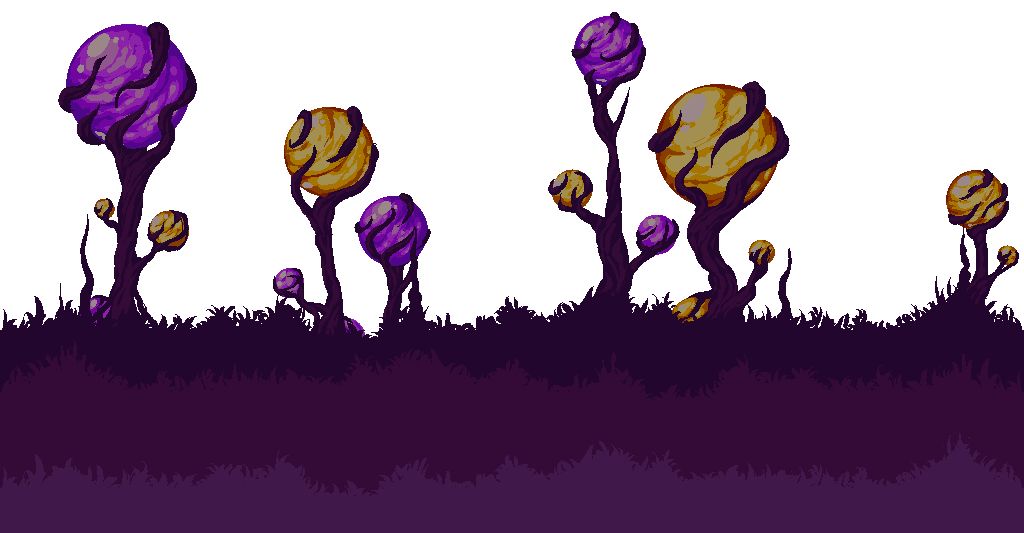
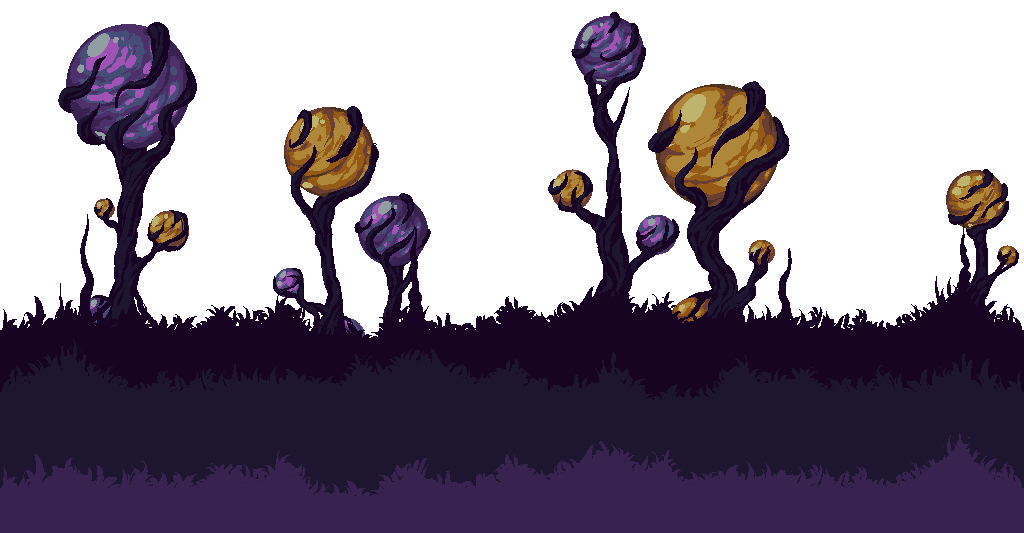
background updates

diff --git a/Backgrounds/AstralBG.cs b/Backgrounds/AstralBG.cs
@@ -5,13 +5,10 @@ namespace CalValEX.Backgrounds
 {
     public class AstralBG : ModSurfaceBgStyle
     {
-        private static int SurfaceFrameCounter;
-        private static int SurfaceFrame;
 
         public override bool ChooseBgStyle() =>
             !Main.gameMenu && Main.LocalPlayer.GetModPlayer<CalValEXPlayer>().ZoneAstral;
 
-        // Use this to keep far Backgrounds like the mountains.
         public override void ModifyFarFades(float[] fades, float transitionSpeed)
         {
             for (int i = 0; i < fades.Length; i++)
@@ -33,32 +30,21 @@ namespace CalValEX.Backgrounds
                 }
         }
 
-        public override int ChooseFarTexture() => mod.GetBackgroundSlot("Backgrounds/AstralBack");
+        public override int ChooseFarTexture()
+        {
+            //b -= 510f;
+            return mod.GetBackgroundSlot("Backgrounds/AstralBack");
+        } 
 
         public override int ChooseMiddleTexture()
         {
-            if (++SurfaceFrameCounter > 12)
-            {
-                SurfaceFrame = (SurfaceFrame + 1) % 2;
-                SurfaceFrameCounter = 0;
-            }
-
-            switch (SurfaceFrame)
-            {
-                case 0:
-                    return mod.GetBackgroundSlot("Backgrounds/AstralMiddle");
-
-                case 1:
-                    return mod.GetBackgroundSlot("Backgrounds/AstralMiddle");
-
-                default:
-                    return -1;
-            }
+            //b -= 200f;
+           return mod.GetBackgroundSlot("Backgrounds/AstralMiddle");
         }
 
         public override int ChooseCloseTexture(ref float scale, ref double parallax, ref float a, ref float b)
         {
-            b -= 130f;
+            b -= 180f;
             return mod.GetBackgroundSlot("Backgrounds/AstralClose");
         }
     }

diff --git a/Backgrounds/AstralSky.cs b/Backgrounds/AstralSky.cs
@@ -1,0 +1,1 @@
+//
